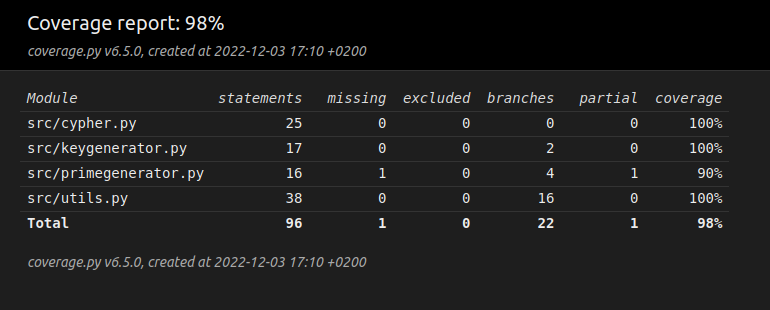
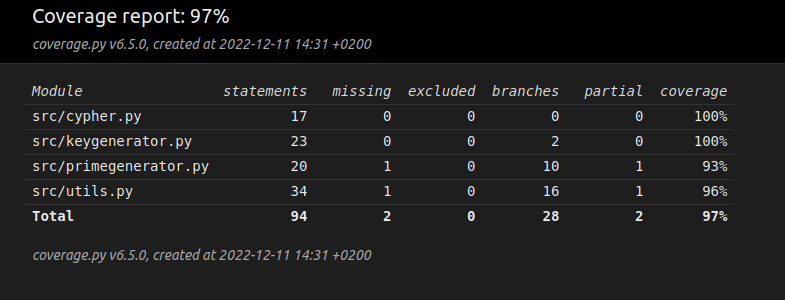
viikko 6

diff --git a/src/keygenerator.py b/src/keygenerator.py
@@ -3,29 +3,44 @@ from primegenerator import generate_prime_pair
 from utils import random_between, greatest_common_factor, modular_inverse
 
 
-def generate_key_pair(key_size):
-    """ Luo julkisen ja yksityisen avainparin.
+class KeyGenerator:
+    """ Luokka avainparin luomiseen.
 
-    Args:
-        key_size (int): avaimen koko
-
-    Returns:
-        tuple: julkinen ja yksityinen avainpari
+    Attributes:
+        public_exponent (int): julkinen eksponentti
+        private_exponent (int): yksityinen eksponentti
+        modulus (int): modulus
     """
 
-    print(f"\nGenerating key pair with {key_size} bits\n")
-    (p, q) = generate_prime_pair(key_size)
-    print(f"\nGenerated prime pair: {p}, {q}\n")
-    modulus = p * q
+    def __init__(self):
+        self.public_exponent = 0
+        self.private_exponent = 0
+        self.modulus = 0
 
-    while True:
-        public_exponent = random_between(
-            pow(2, key_size - 1), pow(2, key_size))
-        if greatest_common_factor(public_exponent, (p - 1) * (q - 1)) == 1:
-            break
+    def generate_key_pair(self, key_size):
+        """ Luo julkisen ja yksityisen avainparin.
 
-    print(f"\nGenerated random number: {public_exponent}\n")
-    private_exponent = modular_inverse(public_exponent, (p - 1) * (q - 1))
-    public_key = (modulus, public_exponent)
-    private_key = (modulus, private_exponent)
-    return (public_key, private_key)
+        Args:
+            key_size (int): avaimen koko
+        """
+
+        (prime1, prime2) = generate_prime_pair(key_size)
+        modulus = prime1 * prime2
+
+        while True:
+            public_exponent = random_between(
+                pow(2, key_size - 1), pow(2, key_size))
+            if greatest_common_factor(public_exponent, (prime1 - 1) * (prime2 - 1)) == 1:
+                break
+
+        private_exponent = modular_inverse(
+            public_exponent, (prime1 - 1) * (prime2 - 1))
+        self.public_exponent = public_exponent
+        self.private_exponent = private_exponent
+        self.modulus = modulus
+
+    def get_public_key(self):
+        return (self.modulus, self.public_exponent)
+
+    def get_private_key(self):
+        return (self.modulus, self.private_exponent)

diff --git a/src/primegenerator.py b/src/primegenerator.py
@@ -1,7 +1,7 @@
 from utils import random_between, rabin_miller_primality_test
 
 
-def is_prime(n):
+def is_prime(number):
     """ Tarkistaa onko luku alkuluku.
 
     Args:
@@ -27,14 +27,14 @@ def is_prime(n):
                     859, 863, 877, 881, 883, 887, 907, 911, 919, 929, 937, 
                     941, 947, 953, 967, 971, 977, 983, 991, 997, 1009]
 
-    if n in small_primes:
+    if number in small_primes:
         return True
 
-    for p in small_primes:
-        if n % p == 0:
+    for prime in small_primes:
+        if number % prime == 0:
             return False
 
-    return rabin_miller_primality_test(n)
+    return rabin_miller_primality_test(number)
 
 
 def generate_prime_number(n):
@@ -47,11 +47,10 @@ def generate_prime_number(n):
         int: alkuluku
     """
 
-    # print(f"\nGenerating large prime number with {n} bits\n")
     while True:
-        p = random_between(pow(2, n - 1), pow(2, n))
-        if is_prime(p):
-            return p
+        prime = random_between(pow(2, n - 1), pow(2, n))
+        if is_prime(prime):
+            return prime
 
 
 def generate_prime_pair(n):
@@ -64,10 +63,9 @@ def generate_prime_pair(n):
         tuple: alkulukupari
     """
 
-    # print(f"\nGenerating prime pair with {n} bits\n")
-    p = generate_prime_number(n)
-    q = generate_prime_number(n)
+    prime1 = generate_prime_number(n)
+    prime2 = generate_prime_number(n)
 
-    while p == q:
-        q = generate_prime_number(n)
-    return (p, q)
+    while prime1 == prime2:
+        prime2 = generate_prime_number(n)
+    return (prime1, prime2)

diff --git a/src/tests/keygenerator_test.py b/src/tests/keygenerator_test.py
@@ -1,9 +1,27 @@
 import unittest
-from keygenerator import generate_key_pair
+from keygenerator import KeyGenerator
 
-class TestKeyGenerator(unittest.TestCase): 
+class TestKeyGenerator(unittest.TestCase):
+    def setUp(self):
+        self.key_generator = KeyGenerator()
 
-    def test_generate_key_pair(self):
-        key = generate_key_pair(10)
-        self.assertEqual(key[0] != None, True)
-        self.assertEqual(key[1] != None, True)
+    def test_key_generator_is_initialized(self):
+        self.assertEqual(self.key_generator.modulus, 0)
+        self.assertEqual(self.key_generator.public_exponent, 0)
+        self.assertEqual(self.key_generator.private_exponent, 0)
+
+    def test_key_pair_can_be_generated(self):
+        self.key_generator.generate_key_pair(10)
+        self.assertEqual(self.key_generator.modulus != 0, True)
+        self.assertEqual(self.key_generator.public_exponent != 0, True)
+        self.assertEqual(self.key_generator.private_exponent != 0, True)
+
+    def test_get_public_key(self):
+        public_key = self.key_generator.get_public_key()
+        self.assertEqual(public_key[0], 0)
+        self.assertEqual(public_key[1], 0)
+
+    def test_get_private_key(self):
+        private_key = self.key_generator.get_private_key()
+        self.assertEqual(private_key[0], 0)
+        self.assertEqual(private_key[1], 0)

diff --git a/src/tests/cypher_test.py b/src/tests/cypher_test.py
@@ -1,21 +1,23 @@
 import unittest
 from cypher import Cypher
-from keygenerator import generate_key_pair
+from keygenerator import KeyGenerator
 
 
 class TestCypher(unittest.TestCase):
     def setUp(self):
+        key_generator = KeyGenerator()
+        key_generator.generate_key_pair(512)
+        self.public_key = key_generator.get_public_key()
+        self.private_key = key_generator.get_private_key()
         self.cypher = Cypher()
         self.message = "Hello Bob!"
-        (self.public_key, self.private_key) = generate_key_pair(512)
 
-    def test_message_can_be_encrypted(self):
+    def test_encrypt(self):
         encrypted_message = self.cypher.encrypt(self.message, self.public_key)
-        self.assertEqual(encrypted_message != self.message, True)
-        self.assertEqual(type(encrypted_message), int)
+        self.assertEqual(encrypted_message != 0, True)
 
-    def test_message_can_be_decrypted(self):
+    def test_decrypt(self):
         encrypted_message = self.cypher.encrypt(self.message, self.public_key)
-        decrypted_message = self.cypher.decrypt(encrypted_message, self.private_key)
+        decrypted_message = self.cypher.decrypt(
+            encrypted_message, self.private_key)
         self.assertEqual(decrypted_message, self.message)
-        

diff --git a/src/userinterface.py b/src/userinterface.py
@@ -9,7 +9,7 @@ from kivy.uix.gridlayout import GridLayout
 from kivy.uix.stacklayout import StackLayout
 from kivy.uix.widget import Widget
 from cypher import Cypher
-from newkeygenerator import NewKeyGenerator
+from keygenerator import KeyGenerator
 import time
 
 
@@ -17,7 +17,7 @@ class UserInterface(BoxLayout):
     """ Käyttöliittymä.
 
     Attributes:
-        key_generator (NewKeyGenerator): avainparin generoija
+        key_generator (keyGenerator): avainparin generoija
         slider_key_size (int): sliderin arvo
         slider_key_size_text (str): sliderin arvo tekstimuodossa
         encrypted_message (int): salattu viesti
@@ -28,7 +28,7 @@ class UserInterface(BoxLayout):
         decryption_time (str): purun kesto
     """
 
-    key_generator = NewKeyGenerator()
+    key_generator = KeyGenerator()
 
     slider_key_size = 512
     slider_key_size_text = StringProperty("key size")

diff --git a/src/utils.py b/src/utils.py
@@ -24,7 +24,7 @@ def rabin_miller_primality_test(n, k=40):
 
     Args:
         n (int): luku
-        k (int, optional): testien määrä. Oletuksena 128.
+        k (int, optional): testien määrä. Oletuksena 40.
 
     Returns:
         bool: True jos luku on alkuluku, muuten False
@@ -59,7 +59,7 @@ def rabin_miller_primality_test(n, k=40):
         if x == 1 or x == n - 1:
             continue
 
-        # Jos x != n - 1 ja x != n - 1 , testataan seuraavat 2^r - 1 kertaa
+        # Jos x != 1 ja x != n - 1 , testataan seuraavat 2^r - 1 kertaa
         for _ in range(r - 1):
 
             # Lasketaan x^2 mod n

diff --git a/src/main.py b/src/main.py
@@ -7,22 +7,9 @@ kivy.require('2.1.0')
 Config.set('graphics', 'width', '1024')
 Config.set('graphics', 'height', '768')
 
-from cypher import Cypher
-from newkeygenerator import NewKeyGenerator
-import time
-
 
 class RsaEncryptionApp(App):
     pass
 
 
 RsaEncryptionApp().run()
-
-
-def main():
-    cypher = Cypher()
-    key_generator = NewKeyGenerator()
-
-
-if __name__ == "__main__":
-    main()

diff --git a/dokumentaatio/testausdokumentti.md b/dokumentaatio/testausdokumentti.md
@@ -8,7 +8,7 @@ Tässä projektissa on toteutettu automaatiotestit yksikkötestien tasolla hyöd
 
 Testikattavuus on 98%.
 
-![coverage](./images/coverage-report.png)
+![coverage](../images/coverage-report.png)
 
 ## Testien suorittaminen
 
